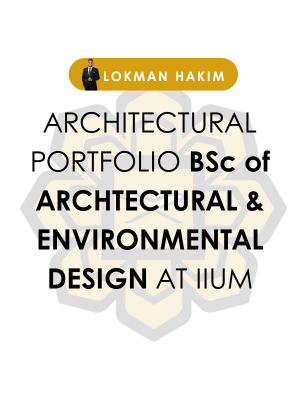
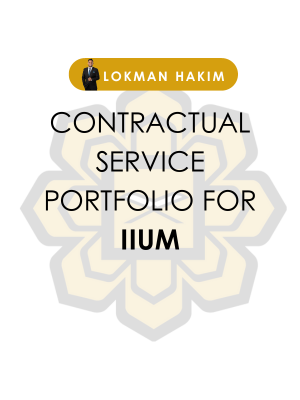
Architectural portfolio image thumbnail

diff --git a/13-1_Architectural_Portfolio.html b/13-1_Architectural_Portfolio.html
@@ -414,7 +414,7 @@
                                     <div class="card-body p-0">
                                         <div class="row align-items-center gx-5">
                                             <div class="col text-center text-lg-start mb-4 mb-lg-0">
-                                                <img class="img-fluid" src="img/arch-portfolio/5.png"
+                                                <img class="img-fluid" src="img/arch-portfolio/6.png"
                                                     alt="Alexander Poh Architect Company Logo" />
                                                 <div class="small fw-bolder"></div>
                                                 <div class="small text-muted"></div>
@@ -609,7 +609,7 @@
                                     <div class="card-body p-0">
                                         <div class="row align-items-center gx-5">
                                             <div class="col text-center text-lg-start mb-4 mb-lg-0">
-                                                <img class="img-fluid" src="img/project-cover/6c757d.png"
+                                                <img class="img-fluid" src="img/arch-portfolio/7.png"
                                                     alt="Alexander Poh Architect Company Logo" />
                                                 <div class="small fw-bolder"></div>
                                                 <div class="small text-muted"></div>
@@ -653,7 +653,7 @@
                                     <div class="card-body p-0">
                                         <div class="row align-items-center gx-5">
                                             <div class="col text-center text-lg-start mb-4 mb-lg-0">
-                                                <img class="img-fluid" src="img/project-cover/6c757d.png"
+                                                <img class="img-fluid" src="img/arch-portfolio/8.png"
                                                     alt="Alexander Poh Architect Company Logo" />
                                                 <div class="small fw-bolder"></div>
                                                 <div class="small text-muted"></div>

diff --git a/13_Architectural_Portfolio.html b/13_Architectural_Portfolio.html
@@ -384,7 +384,7 @@
                                     <div class="card-body p-0">
                                         <div class="row align-items-center gx-5">
                                             <div class="col text-center text-lg-start mb-4 mb-lg-0">
-                                                <img class="img-fluid" src="img/arch-portfolio/5.png"
+                                                <img class="img-fluid" src="img/arch-portfolio/6.png"
                                                     alt="Alexander Poh Architect Company Logo" />
                                                 <div class="small fw-bolder"></div>
                                                 <div class="small text-muted"></div>
@@ -579,7 +579,7 @@
                                     <div class="card-body p-0">
                                         <div class="row align-items-center gx-5">
                                             <div class="col text-center text-lg-start mb-4 mb-lg-0">
-                                                <img class="img-fluid" src="img/project-cover/6c757d.png"
+                                                <img class="img-fluid" src="img/arch-portfolio/7.png"
                                                     alt="Alexander Poh Architect Company Logo" />
                                                 <div class="small fw-bolder"></div>
                                                 <div class="small text-muted"></div>
@@ -623,7 +623,7 @@
                                     <div class="card-body p-0">
                                         <div class="row align-items-center gx-5">
                                             <div class="col text-center text-lg-start mb-4 mb-lg-0">
-                                                <img class="img-fluid" src="img/project-cover/6c757d.png"
+                                                <img class="img-fluid" src="img/arch-portfolio/8.png"
                                                     alt="Alexander Poh Architect Company Logo" />
                                                 <div class="small fw-bolder"></div>
                                                 <div class="small text-muted"></div>
